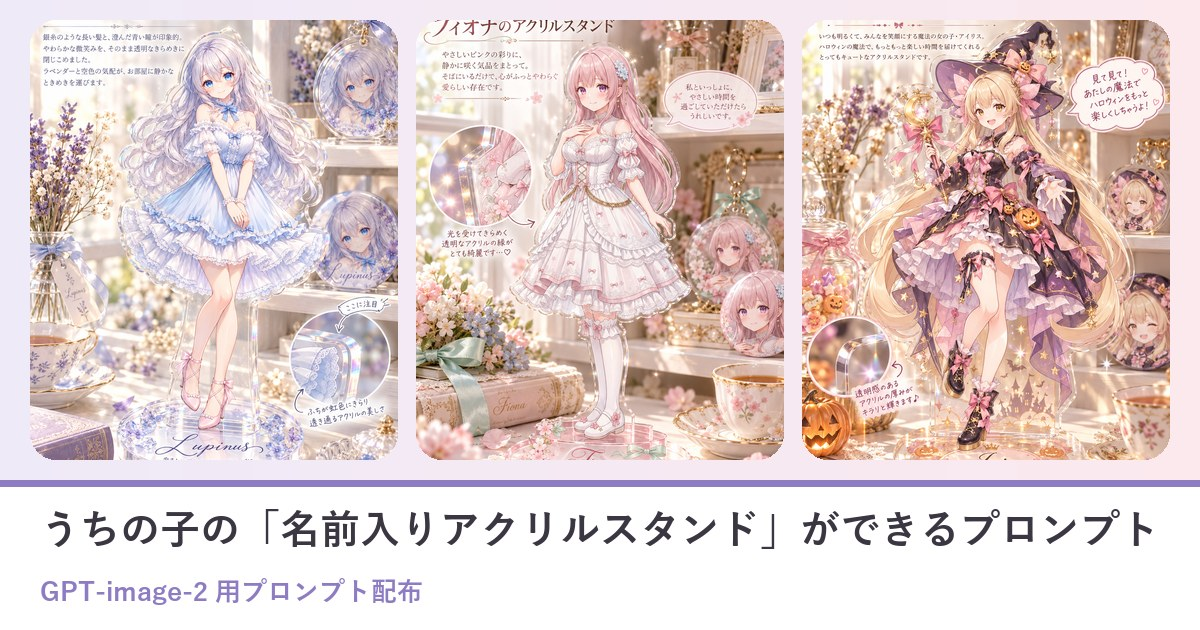
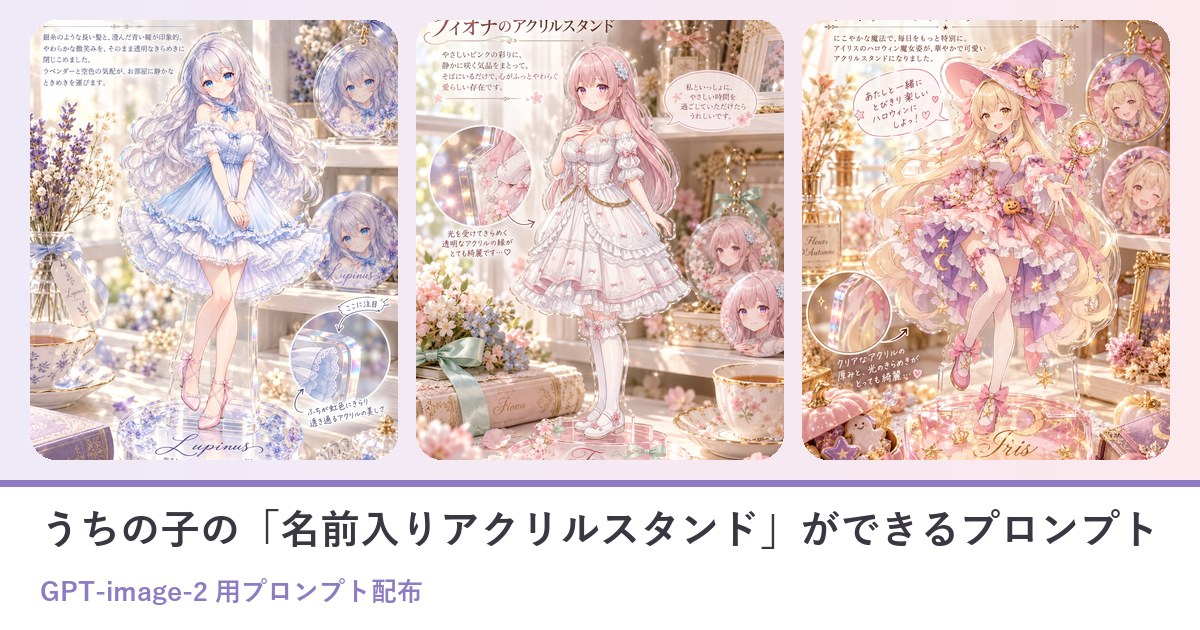
配布 10/19 三姉妹 GPT アクリルスタンド：アイリスの作例を焼き直し（指6本）・キャプションと会話劇を新しい絵に

Changed region(s): [[0.6475, 0.0302, 0.9867, 0.754]]

diff --git a/prompts/2026-10-19-gpt-am31ftdx.html b/prompts/2026-10-19-gpt-am31ftdx.html
@@ -45,7 +45,7 @@
 @media(max-width:560px){.ps-ba{grid-template-columns:1fr}.ps-ba .arr{transform:rotate(90deg);text-align:center}.ps-vars,.ps-vars tbody,.ps-vars tr,.ps-vars th,.ps-vars td{display:block;width:auto;white-space:normal}.ps-vars tr:first-child{display:none}.ps-vars tr{border-bottom:1px solid var(--ps-line);padding:4px 0}.ps-vars th,.ps-vars td{border:0;padding:6px 12px}}
 .ps{overflow-wrap:anywhere}.ps-vars td,.ps-vars th{overflow-wrap:anywhere}.ps img{max-width:100%}
 </style><!--ps-meta {"date": "2026-10-19", "title": "うちの子の「名前入りアクリルスタンド」ができるプロンプト", "kind": "gpt", "nsfw": false, "summary": "キャラの絵と名前を入れるだけで、その子の「名前入りアクリルスタンド」に。台座のロゴも決めゼリフも飾る小物も、AIがその子に合わせて考えてくれます。", "thumb": "img/2026-10-19-gpt-am31ftdx/ex1.webp"}-->
-</head><body class="decor-page decor-bubble"><div class="page-decor" aria-hidden="true"><div class="decor-layer decor-bubble-layer"><i></i><i></i><i></i><i></i><i></i><i></i><i></i><i></i><i></i><i></i><i></i><i></i></div></div><header class="site-header"><div class="container"><a class="brand" href="../index.html"><span class="brand-script">Lupinus</span><span class="brand-sub">AI Bloom Sisters</span></a><button class="menu-toggle" aria-label="menu" onclick="document.getElementById('nav').classList.toggle('open')">≡</button><nav class="nav" id="nav"><a href="../index.html">Home</a><a href="../about.html">About</a><a href="../portfolio.html">Portfolio</a><a href="../gallery.html">Gallery</a><a href="../blog/index.html" class="active">Blog</a><a href="../sns.html">SNS</a><a href="../coming-soon.html">Contact</a></nav></div></header><main class="article"><header class="article-header"><div class="date">2026-10-19<span class="day-chip">プロンプト配布</span></div><h1>うちの子の「名前入りアクリルスタンド」ができるプロンプト</h1></header><div class="article-body"><div class="ps"><p><span class="ps-badge">GPT-image-2 用</span><span class="ps-badge">2026-10-19</span></p><p class="ps-lead">ChatGPT（GPT-image-2）に自分のキャラの絵を1枚渡して、この文を貼るだけ。窓辺の白い飾り棚に、うちの子の全身の透明なアクリルスタンド。ふちは虹色に光って、キャラの色の台座には筆記体の名前のロゴと決めゼリフ。まわりにはミニチュアの小物と、丸いキーホルダーと缶バッジまで並びます。台座のロゴのデザインも、決めゼリフも、飾る小物も、AIがキャラを読み取って考えてくれます。名前のほかは空欄でもOK。色・服・背景・ポーズ、季節の衣装のテーマを決めたいときは、その欄に書くだけです。</p><nav class="ps-toc" aria-label="目次"><p>📑 目次</p><ol><li><a href="#sec1">作例</a></li><li><a href="#sec2">3人のおしゃべり（名前入りアクリルスタンド）</a></li><li><a href="#sec3">使い方（3ステップ）</a></li><li><a href="#sec4">プロンプト</a></li><li><a href="#sec5">書くところ</a></li><li><a href="#sec6">（おまけ）元絵を綺麗にしておくと、もっと綺麗に</a></li><li><a href="#sec7">メモ</a></li><li><a href="#sec8">配布ルール</a></li></ol></nav><h2 id="sec1">作例</h2><div class="ps-ex"><figure><img src="img/2026-10-19-gpt-am31ftdx/ex1.webp" alt="名前「ルピナス」だけ（ほかの欄は空欄）＝水色のフリルのドレスの全身のアクリルスタンド。台座には筆記体の「Lupinus」と、決めゼリフ「やさしい時間を、あなたのそばに。」。横に丸いキーホルダーと缶バッジ、ふちの「ここに注目」の小窓まで" loading="lazy"><figcaption>名前「ルピナス」だけ（ほかの欄は空欄）＝水色のフリルのドレスの全身のアクリルスタンド。台座には筆記体の「Lupinus」と、決めゼリフ「やさしい時間を、あなたのそばに。」。横に丸いキーホルダーと缶バッジ、ふちの「ここに注目」の小窓まで</figcaption></figure><figure><img src="img/2026-10-19-gpt-am31ftdx/ex2.webp" alt="名前「Fiona」・テーマカラー「桜色とミントグリーン」・ポーズ・追加の指示「吹き出しは一人称「私」で、やさしい丁寧語に」（服・背景は空欄）＝桜色の透明な台座にミントのリボン。決めゼリフは英語で「Gentle Bloom, Quiet Grace」、見出しはカタカナで「フィオナのアクリルスタンド」。吹き出しは「私といっしょに、やさしい時間を過ごしていただけたらうれしいです。」" loading="lazy"><figcaption>名前「Fiona」・テーマカラー「桜色とミントグリーン」・ポーズ・追加の指示「吹き出しは一人称「私」で、やさしい丁寧語に」（服・背景は空欄）＝桜色の透明な台座にミントのリボン。決めゼリフは英語で「Gentle Bloom, Quiet Grace」、見出しはカタカナで「フィオナのアクリルスタンド」。吹き出しは「私といっしょに、やさしい時間を過ごしていただけたらうれしいです。」</figcaption></figure><figure><img src="img/2026-10-19-gpt-am31ftdx/ex3.webp" alt="名前「アイリス」・ポーズ・追加の指示「アクリルスタンドのテーマはハロウィンの魔女の衣装。吹き出しは一人称「あたし」で、元気なタメ口に」（ほかの欄は空欄）＝魔女の帽子と月の杖、かぼちゃの飾りの衣装に。台座にはかぼちゃと「笑顔もいたずらも全力！」。吹き出しは「見て見て！ あたしの魔法でハロウィンをもっと楽しくしちゃうよ！」" loading="lazy"><figcaption>名前「アイリス」・ポーズ・追加の指示「アクリルスタンドのテーマはハロウィンの魔女の衣装。吹き出しは一人称「あたし」で、元気なタメ口に」（ほかの欄は空欄）＝魔女の帽子と月の杖、かぼちゃの飾りの衣装に。台座にはかぼちゃと「笑顔もいたずらも全力！」。吹き出しは「見て見て！ あたしの魔法でハロウィンをもっと楽しくしちゃうよ！」</figcaption></figure></div><p style="font-size:.82rem;color:var(--ps-ink)">※作例の画像の転載・保存しての再配布はご遠慮ください。</p><h2 id="sec2">3人のおしゃべり（名前入りアクリルスタンド）</h2><div class="ps-chat"><img src="img/2026-10-19-gpt-am31ftdx/talk_iris_smug.webp" alt="アイリス" loading="lazy"><div><div class="who">アイリス</div><div class="bub">じゃーん！ あたしのアクリルスタンド、魔女の衣装なの！ 帽子にかぼちゃまでついてるんだから！</div></div></div><div class="ps-chat r"><img src="img/2026-10-19-gpt-am31ftdx/talk_fiona_surprised.webp" alt="フィオナ" loading="lazy"><div><div class="who">フィオナ</div><div class="bub">服の欄は空欄だったのに、ポーズの欄の「ハロウィンの魔女」だけで、衣装ごと変わったんですね</div></div></div><div class="ps-chat r"><img src="img/2026-10-19-gpt-am31ftdx/talk_lupinus_happy.webp" alt="ルピナス" loading="lazy"><div><div class="who">ルピナス</div><div class="bub">台座には「笑顔もいたずらも全力！」。決めゼリフまでアイリスそのものだね</div></div></div><div class="ps-chat"><img src="img/2026-10-19-gpt-am31ftdx/talk_iris_laugh.webp" alt="アイリス" loading="lazy"><div><div class="who">アイリス</div><div class="bub">でしょ！ 月の杖も持ってるし、缶バッジのあたしはウインクしてるの</div></div></div><div class="ps-chat r"><img src="img/2026-10-19-gpt-am31ftdx/talk_fiona_happy.webp" alt="フィオナ" loading="lazy"><div><div class="who">フィオナ</div><div class="bub">私は「Fiona」とアルファベットで書いて、テーマカラーを桜色とミントグリーンにしました</div></div></div><div class="ps-chat r"><img src="img/2026-10-19-gpt-am31ftdx/talk_lupinus_surprised.webp" alt="ルピナス" loading="lazy"><div><div class="who">ルピナス</div><div class="bub">台座が桜色の透明なアクリルで、ミントのリボンが結んであるね。かわいい……</div></div></div><div class="ps-chat r"><img src="img/2026-10-19-gpt-am31ftdx/talk_fiona_shy.webp" alt="フィオナ" loading="lazy"><div><div class="who">フィオナ</div><div class="bub">決めゼリフは英語で「Gentle Bloom, Quiet Grace」になりました。見出しは、ちゃんとカタカナでした</div></div></div><div class="ps-chat"><img src="img/2026-10-19-gpt-am31ftdx/talk_iris_surprised.webp" alt="アイリス" loading="lazy"><div><div class="who">アイリス</div><div class="bub">英語の決めゼリフ、大人っぽい！ あたしも英語にしてほしかったー</div></div></div><div class="ps-chat r"><img src="img/2026-10-19-gpt-am31ftdx/talk_lupinus_wink.webp" alt="ルピナス" loading="lazy"><div><div class="who">ルピナス</div><div class="bub">わたしは名前だけ。決めゼリフは「やさしい時間を、あなたのそばに。」だったよ</div></div></div><div class="ps-chat r"><img src="img/2026-10-19-gpt-am31ftdx/talk_fiona_thinking.webp" alt="フィオナ" loading="lazy"><div><div class="who">フィオナ</div><div class="bub">ロゴのデザインも決めゼリフも、焼くたびにAIがその子に合わせて考えてくれるそうです。英語になるか日本語になるかも、毎回ちがうみたいですね</div></div></div><div class="ps-chat"><img src="img/2026-10-19-gpt-am31ftdx/talk_iris_devious.webp" alt="アイリス" loading="lazy"><div><div class="who">アイリス</div><div class="bub">じゃあ英語が出るまで、何回でも焼いちゃお！</div></div></div><div class="ps-chat r"><img src="img/2026-10-19-gpt-am31ftdx/talk_lupinus_exasperated.webp" alt="ルピナス" loading="lazy"><div><div class="who">ルピナス</div><div class="bub">アイリス、それだと棚がアクリルスタンドでいっぱいになっちゃうよ</div></div></div><div class="ps-chat r"><img src="img/2026-10-19-gpt-am31ftdx/talk_lupinus_thinking.webp" alt="ルピナス" loading="lazy"><div><div class="who">ルピナス</div><div class="bub">でも、ふちが虹色に光ってるの、本物のアクリルみたいだよね。小窓で拡大までしてくれてる</div></div></div><div class="ps-chat r"><img src="img/2026-10-19-gpt-am31ftdx/talk_fiona_laugh.webp" alt="フィオナ" loading="lazy"><div><div class="who">フィオナ</div><div class="bub">では、三人のアクリルスタンドを並べて、お部屋の棚に飾りましょうか</div></div></div><div class="ps-chat"><img src="img/2026-10-19-gpt-am31ftdx/talk_iris_laugh.webp" alt="アイリス" loading="lazy"><div><div class="who">アイリス</div><div class="bub">うん！ まん中はあたしの魔女ね！ ……あ、帽子が大きすぎて、二人の顔にかぶっちゃう</div></div></div><h2 id="sec3">使い方（3ステップ）</h2><ol class="ps-steps"><li>ChatGPT を開いて、画像を作れるモード（GPT-image-2）にする</li><li>自分のキャラの絵を1枚だけ添付する（自分の絵・使ってよい画像だけ。いつもの絵のままでOK。下の「おまけ」で元絵を作った人は元絵を）</li><li>下のプロンプトをワンタップでコピーして、いちばん上の「▼ ここに書く」の欄（色の付いたところ）にキャラの名前などを書いて送信する（名前のほかは空欄でもOK。服・背景・ポーズを変えたいときは、その欄に書くだけ）</li></ol><h2 id="sec4">プロンプト</h2><div class="ps-note" style="margin-bottom:12px"><b>書くのは「▼ ここに書く」の欄だけ</b><ul><li><mark style="background:var(--ps-soft);color:var(--ps-a);font-weight:700;border-bottom:2px dashed var(--ps-a);padding:0 4px">色の付いたところ</mark>（「：」のうしろ）に書くだけ。【 】は消さずにそのまま残してね</li><li>下の文章に出てくる【キャラの名前】などは書き換えなくてOK（AIが上の欄を読んでくれます）</li><li>任意の欄は空のままでも大丈夫（おまかせになります）</li><li>👗 <b>服・アクセサリー／背景／ポーズを変えたいときは、その欄に書くだけ</b>。欄に書いた内容が下の文章より優先されるように作ってあるので、下の文章は書き換えなくてOK。空欄なら、服とアクセサリーは添付した絵のまま、背景とポーズは下の文章のとおりになります。顔立ち・髪型・髪色・目の色は、いつも添付した絵のままです</li><li>💡 添付した絵と違う服にしたいときは、色と形まで具体的に書くと混ざりにくくなります（例：「白いニット」より「白いケーブル編みのニットと紺のプリーツスカート」）</li><li>🚫 添付する絵は<b>自分のキャラ・自分が権利を持つ画像だけ</b>。版権キャラ・他の人のキャラの画像は固く禁止です（下の「配布ルール」）</li></ul></div><div class="ps-box"><button class="ps-copy" type="button" data-target="ps-prompt">📋 ワンタップでコピー</button><p style="margin:0 0 8px;font-size:.82rem;color:var(--ps-a)">プロンプト</p><pre>添付した画像のキャラクターを読み取って、そのキャラの「名前入りのアクリルスタンド」を棚に飾った写真のようなイラストを作ってください。
+</head><body class="decor-page decor-bubble"><div class="page-decor" aria-hidden="true"><div class="decor-layer decor-bubble-layer"><i></i><i></i><i></i><i></i><i></i><i></i><i></i><i></i><i></i><i></i><i></i><i></i></div></div><header class="site-header"><div class="container"><a class="brand" href="../index.html"><span class="brand-script">Lupinus</span><span class="brand-sub">AI Bloom Sisters</span></a><button class="menu-toggle" aria-label="menu" onclick="document.getElementById('nav').classList.toggle('open')">≡</button><nav class="nav" id="nav"><a href="../index.html">Home</a><a href="../about.html">About</a><a href="../portfolio.html">Portfolio</a><a href="../gallery.html">Gallery</a><a href="../blog/index.html" class="active">Blog</a><a href="../sns.html">SNS</a><a href="../coming-soon.html">Contact</a></nav></div></header><main class="article"><header class="article-header"><div class="date">2026-10-19<span class="day-chip">プロンプト配布</span></div><h1>うちの子の「名前入りアクリルスタンド」ができるプロンプト</h1></header><div class="article-body"><div class="ps"><p><span class="ps-badge">GPT-image-2 用</span><span class="ps-badge">2026-10-19</span></p><p class="ps-lead">ChatGPT（GPT-image-2）に自分のキャラの絵を1枚渡して、この文を貼るだけ。窓辺の白い飾り棚に、うちの子の全身の透明なアクリルスタンド。ふちは虹色に光って、キャラの色の台座には筆記体の名前のロゴと決めゼリフ。まわりにはミニチュアの小物と、丸いキーホルダーと缶バッジまで並びます。台座のロゴのデザインも、決めゼリフも、飾る小物も、AIがキャラを読み取って考えてくれます。名前のほかは空欄でもOK。色・服・背景・ポーズ、季節の衣装のテーマを決めたいときは、その欄に書くだけです。</p><nav class="ps-toc" aria-label="目次"><p>📑 目次</p><ol><li><a href="#sec1">作例</a></li><li><a href="#sec2">3人のおしゃべり（名前入りアクリルスタンド）</a></li><li><a href="#sec3">使い方（3ステップ）</a></li><li><a href="#sec4">プロンプト</a></li><li><a href="#sec5">書くところ</a></li><li><a href="#sec6">（おまけ）元絵を綺麗にしておくと、もっと綺麗に</a></li><li><a href="#sec7">メモ</a></li><li><a href="#sec8">配布ルール</a></li></ol></nav><h2 id="sec1">作例</h2><div class="ps-ex"><figure><img src="img/2026-10-19-gpt-am31ftdx/ex1.webp" alt="名前「ルピナス」だけ（ほかの欄は空欄）＝水色のフリルのドレスの全身のアクリルスタンド。台座には筆記体の「Lupinus」と、決めゼリフ「やさしい時間を、あなたのそばに。」。横に丸いキーホルダーと缶バッジ、ふちの「ここに注目」の小窓まで" loading="lazy"><figcaption>名前「ルピナス」だけ（ほかの欄は空欄）＝水色のフリルのドレスの全身のアクリルスタンド。台座には筆記体の「Lupinus」と、決めゼリフ「やさしい時間を、あなたのそばに。」。横に丸いキーホルダーと缶バッジ、ふちの「ここに注目」の小窓まで</figcaption></figure><figure><img src="img/2026-10-19-gpt-am31ftdx/ex2.webp" alt="名前「Fiona」・テーマカラー「桜色とミントグリーン」・ポーズ・追加の指示「吹き出しは一人称「私」で、やさしい丁寧語に」（服・背景は空欄）＝桜色の透明な台座にミントのリボン。決めゼリフは英語で「Gentle Bloom, Quiet Grace」、見出しはカタカナで「フィオナのアクリルスタンド」。吹き出しは「私といっしょに、やさしい時間を過ごしていただけたらうれしいです。」" loading="lazy"><figcaption>名前「Fiona」・テーマカラー「桜色とミントグリーン」・ポーズ・追加の指示「吹き出しは一人称「私」で、やさしい丁寧語に」（服・背景は空欄）＝桜色の透明な台座にミントのリボン。決めゼリフは英語で「Gentle Bloom, Quiet Grace」、見出しはカタカナで「フィオナのアクリルスタンド」。吹き出しは「私といっしょに、やさしい時間を過ごしていただけたらうれしいです。」</figcaption></figure><figure><img src="img/2026-10-19-gpt-am31ftdx/ex3.webp" alt="名前「アイリス」・ポーズ・追加の指示「アクリルスタンドのテーマはハロウィンの魔女の衣装。吹き出しは一人称「あたし」で、元気なタメ口に」（ほかの欄は空欄）＝魔女の帽子と月の杖、かぼちゃの飾りの衣装に。台座には筆記体の「Iris」と「どんな日だって、あたしの魔法でもっとキラキラに！」。吹き出しは「あたしと一緒にとびきり楽しいハロウィンにしよっ！」" loading="lazy"><figcaption>名前「アイリス」・ポーズ・追加の指示「アクリルスタンドのテーマはハロウィンの魔女の衣装。吹き出しは一人称「あたし」で、元気なタメ口に」（ほかの欄は空欄）＝魔女の帽子と月の杖、かぼちゃの飾りの衣装に。台座には筆記体の「Iris」と「どんな日だって、あたしの魔法でもっとキラキラに！」。吹き出しは「あたしと一緒にとびきり楽しいハロウィンにしよっ！」</figcaption></figure></div><p style="font-size:.82rem;color:var(--ps-ink)">※作例の画像の転載・保存しての再配布はご遠慮ください。</p><h2 id="sec2">3人のおしゃべり（名前入りアクリルスタンド）</h2><div class="ps-chat"><img src="img/2026-10-19-gpt-am31ftdx/talk_iris_smug.webp" alt="アイリス" loading="lazy"><div><div class="who">アイリス</div><div class="bub">じゃーん！ あたしのアクリルスタンド、魔女の衣装なの！ 帽子にかぼちゃまでついてるんだから！</div></div></div><div class="ps-chat r"><img src="img/2026-10-19-gpt-am31ftdx/talk_fiona_surprised.webp" alt="フィオナ" loading="lazy"><div><div class="who">フィオナ</div><div class="bub">服の欄は空欄だったのに、ポーズの欄の「ハロウィンの魔女」だけで、衣装ごと変わったんですね</div></div></div><div class="ps-chat r"><img src="img/2026-10-19-gpt-am31ftdx/talk_lupinus_happy.webp" alt="ルピナス" loading="lazy"><div><div class="who">ルピナス</div><div class="bub">台座には「どんな日だって、あたしの魔法でもっとキラキラに！」。決めゼリフまでアイリスそのものだね</div></div></div><div class="ps-chat"><img src="img/2026-10-19-gpt-am31ftdx/talk_iris_laugh.webp" alt="アイリス" loading="lazy"><div><div class="who">アイリス</div><div class="bub">でしょ！ 月の杖も持ってるし、キーホルダーと缶バッジのあたしもにこにこしてるの</div></div></div><div class="ps-chat r"><img src="img/2026-10-19-gpt-am31ftdx/talk_fiona_happy.webp" alt="フィオナ" loading="lazy"><div><div class="who">フィオナ</div><div class="bub">私は「Fiona」とアルファベットで書いて、テーマカラーを桜色とミントグリーンにしました</div></div></div><div class="ps-chat r"><img src="img/2026-10-19-gpt-am31ftdx/talk_lupinus_surprised.webp" alt="ルピナス" loading="lazy"><div><div class="who">ルピナス</div><div class="bub">台座が桜色の透明なアクリルで、ミントのリボンが結んであるね。かわいい……</div></div></div><div class="ps-chat r"><img src="img/2026-10-19-gpt-am31ftdx/talk_fiona_shy.webp" alt="フィオナ" loading="lazy"><div><div class="who">フィオナ</div><div class="bub">決めゼリフは英語で「Gentle Bloom, Quiet Grace」になりました。見出しは、ちゃんとカタカナでした</div></div></div><div class="ps-chat"><img src="img/2026-10-19-gpt-am31ftdx/talk_iris_surprised.webp" alt="アイリス" loading="lazy"><div><div class="who">アイリス</div><div class="bub">英語の決めゼリフ、大人っぽい！ あたしも英語にしてほしかったー</div></div></div><div class="ps-chat r"><img src="img/2026-10-19-gpt-am31ftdx/talk_lupinus_wink.webp" alt="ルピナス" loading="lazy"><div><div class="who">ルピナス</div><div class="bub">わたしは名前だけ。決めゼリフは「やさしい時間を、あなたのそばに。」だったよ</div></div></div><div class="ps-chat r"><img src="img/2026-10-19-gpt-am31ftdx/talk_fiona_thinking.webp" alt="フィオナ" loading="lazy"><div><div class="who">フィオナ</div><div class="bub">ロゴのデザインも決めゼリフも、焼くたびにAIがその子に合わせて考えてくれるそうです。英語になるか日本語になるかも、毎回ちがうみたいですね</div></div></div><div class="ps-chat"><img src="img/2026-10-19-gpt-am31ftdx/talk_iris_devious.webp" alt="アイリス" loading="lazy"><div><div class="who">アイリス</div><div class="bub">じゃあ英語が出るまで、何回でも焼いちゃお！</div></div></div><div class="ps-chat r"><img src="img/2026-10-19-gpt-am31ftdx/talk_lupinus_exasperated.webp" alt="ルピナス" loading="lazy"><div><div class="who">ルピナス</div><div class="bub">アイリス、それだと棚がアクリルスタンドでいっぱいになっちゃうよ</div></div></div><div class="ps-chat r"><img src="img/2026-10-19-gpt-am31ftdx/talk_lupinus_thinking.webp" alt="ルピナス" loading="lazy"><div><div class="who">ルピナス</div><div class="bub">でも、ふちが虹色に光ってるの、本物のアクリルみたいだよね。小窓で拡大までしてくれてる</div></div></div><div class="ps-chat r"><img src="img/2026-10-19-gpt-am31ftdx/talk_fiona_laugh.webp" alt="フィオナ" loading="lazy"><div><div class="who">フィオナ</div><div class="bub">では、三人のアクリルスタンドを並べて、お部屋の棚に飾りましょうか</div></div></div><div class="ps-chat"><img src="img/2026-10-19-gpt-am31ftdx/talk_iris_laugh.webp" alt="アイリス" loading="lazy"><div><div class="who">アイリス</div><div class="bub">うん！ まん中はあたしの魔女ね！ ……あ、帽子が大きすぎて、二人の顔にかぶっちゃう</div></div></div><h2 id="sec3">使い方（3ステップ）</h2><ol class="ps-steps"><li>ChatGPT を開いて、画像を作れるモード（GPT-image-2）にする</li><li>自分のキャラの絵を1枚だけ添付する（自分の絵・使ってよい画像だけ。いつもの絵のままでOK。下の「おまけ」で元絵を作った人は元絵を）</li><li>下のプロンプトをワンタップでコピーして、いちばん上の「▼ ここに書く」の欄（色の付いたところ）にキャラの名前などを書いて送信する（名前のほかは空欄でもOK。服・背景・ポーズを変えたいときは、その欄に書くだけ）</li></ol><h2 id="sec4">プロンプト</h2><div class="ps-note" style="margin-bottom:12px"><b>書くのは「▼ ここに書く」の欄だけ</b><ul><li><mark style="background:var(--ps-soft);color:var(--ps-a);font-weight:700;border-bottom:2px dashed var(--ps-a);padding:0 4px">色の付いたところ</mark>（「：」のうしろ）に書くだけ。【 】は消さずにそのまま残してね</li><li>下の文章に出てくる【キャラの名前】などは書き換えなくてOK（AIが上の欄を読んでくれます）</li><li>任意の欄は空のままでも大丈夫（おまかせになります）</li><li>👗 <b>服・アクセサリー／背景／ポーズを変えたいときは、その欄に書くだけ</b>。欄に書いた内容が下の文章より優先されるように作ってあるので、下の文章は書き換えなくてOK。空欄なら、服とアクセサリーは添付した絵のまま、背景とポーズは下の文章のとおりになります。顔立ち・髪型・髪色・目の色は、いつも添付した絵のままです</li><li>💡 添付した絵と違う服にしたいときは、色と形まで具体的に書くと混ざりにくくなります（例：「白いニット」より「白いケーブル編みのニットと紺のプリーツスカート」）</li><li>🚫 添付する絵は<b>自分のキャラ・自分が権利を持つ画像だけ</b>。版権キャラ・他の人のキャラの画像は固く禁止です（下の「配布ルール」）</li></ul></div><div class="ps-box"><button class="ps-copy" type="button" data-target="ps-prompt">📋 ワンタップでコピー</button><p style="margin:0 0 8px;font-size:.82rem;color:var(--ps-a)">プロンプト</p><pre>添付した画像のキャラクターを読み取って、そのキャラの「名前入りのアクリルスタンド」を棚に飾った写真のようなイラストを作ってください。
 台座のロゴのデザイン、決めゼリフ、まわりに飾る小物は、キャラの見た目や性格からあなたが考えて作ってください。
 
 ▼ ここに書く（「：」のうしろに書くだけ。【 】は消さずにそのまま。名前だけは必ず書く。ほかの空の欄はおまかせ）
